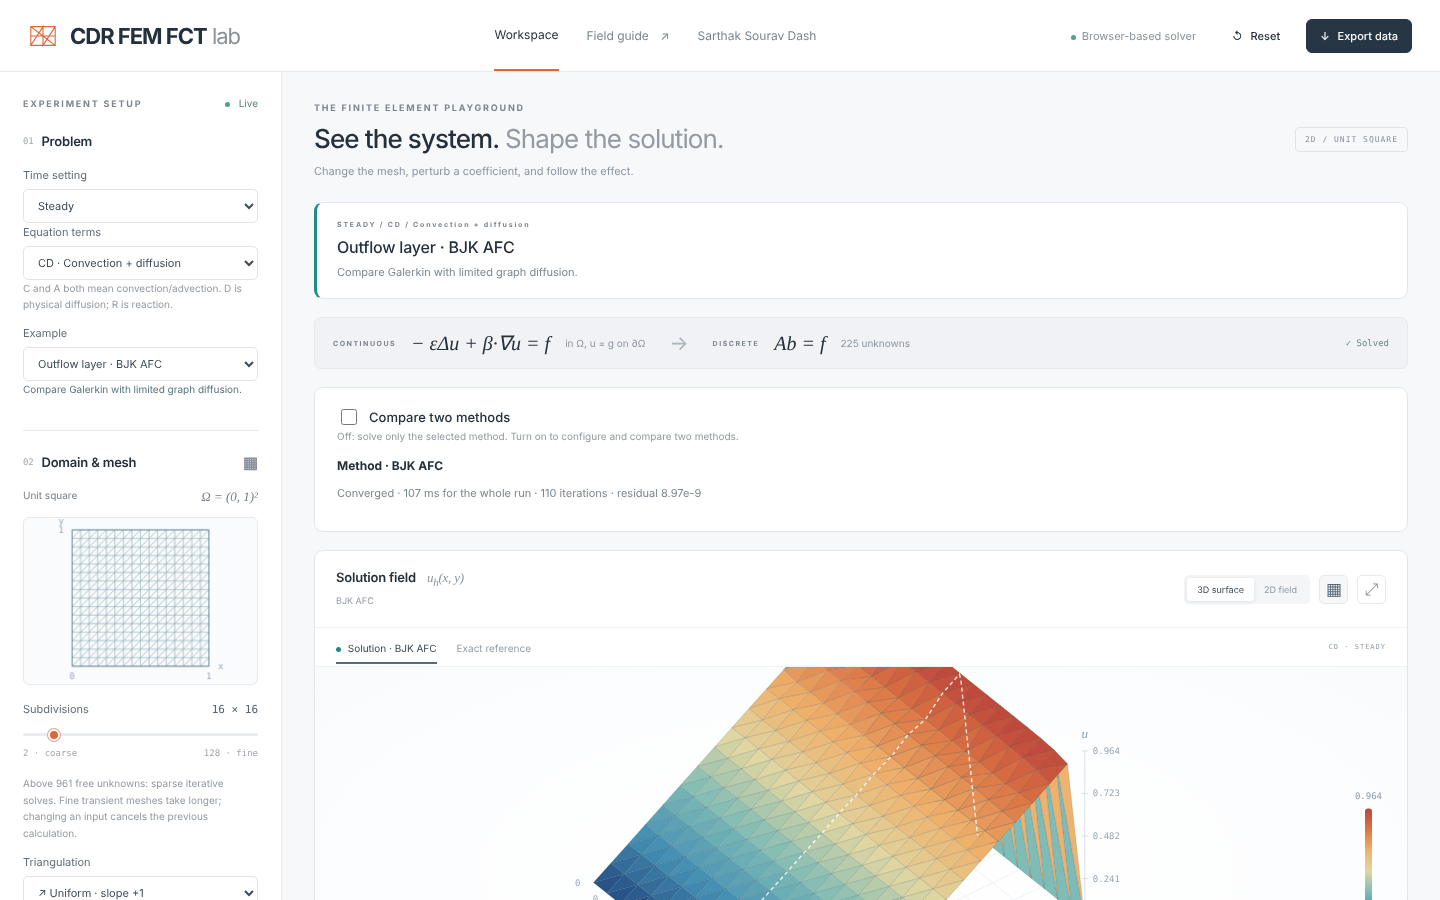
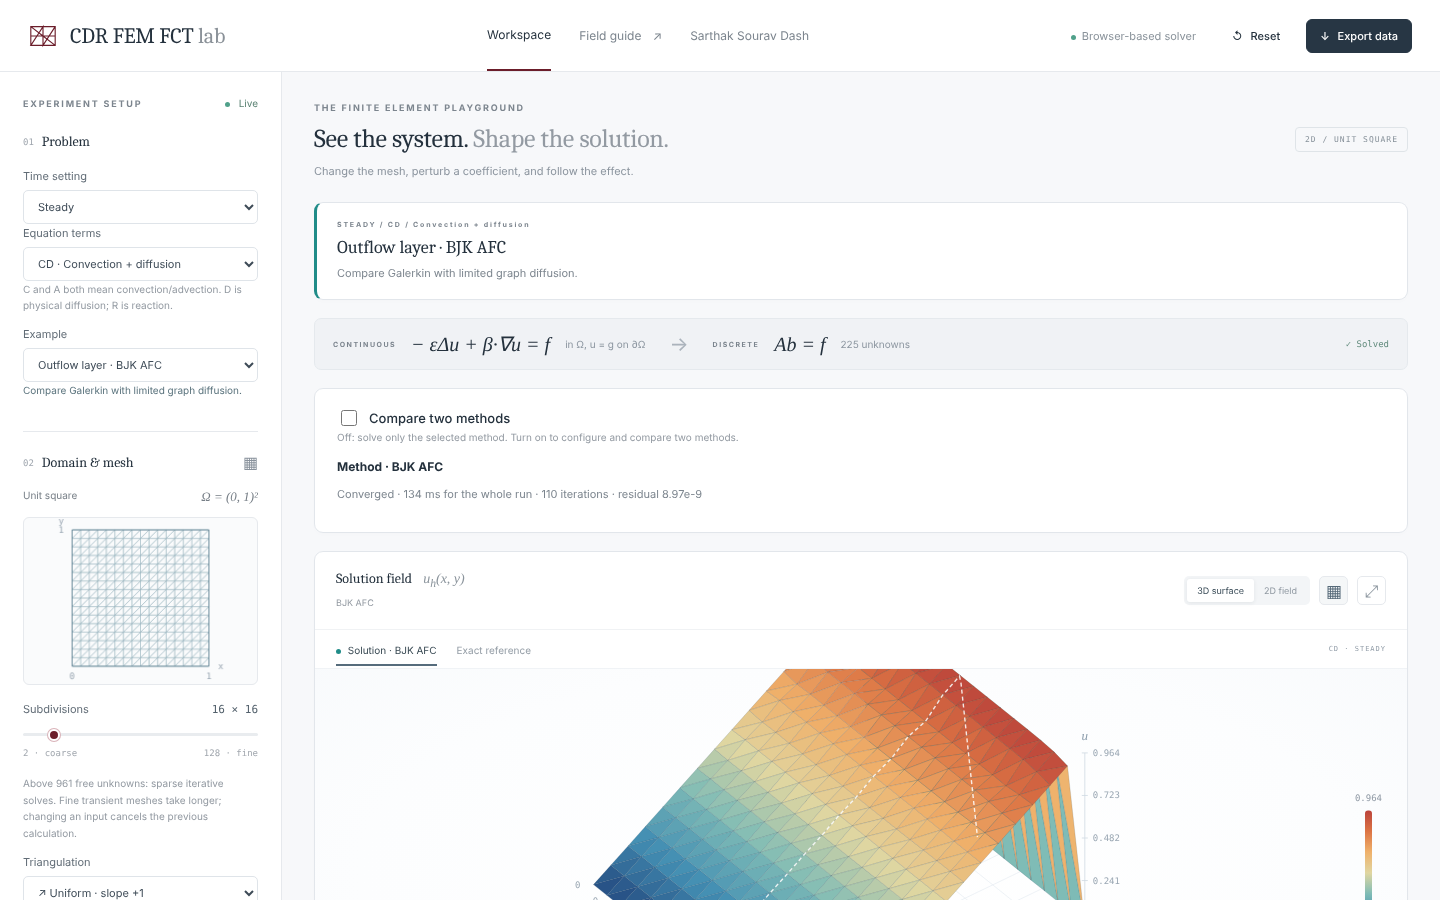
Ivory and deep wine palette

diff --git a/assets/css/style.css b/assets/css/style.css
@@ -1,15 +1,15 @@
 /* Sarthak Sourav Dash — personal site
-   Palette: black with earth pigments. Type: STIX Two Text, the face of mathematics journals. */
+   Palette: slate ink on ivory with a deep wine accent. Type: STIX Two Text, the face of mathematics journals. */
 @import url('https://fonts.googleapis.com/css2?family=STIX+Two+Text:ital,wght@0,400;0,500;0,600;1,400;1,500&display=swap');
 
 :root {
-  --black: #070605;      /* page */
-  --loam: #15110d;       /* raised surfaces, image slots */
-  --umber: #3b2f23;      /* rules and frames */
-  --dust: #a2947f;       /* secondary text */
-  --chalk: #ece4d3;      /* primary text */
-  --ochre: #d0a04c;      /* links, emphasis */
-  --laterite: #b4552f;   /* rare second accent */
+  --black: #fcfaf5;      /* page background: ivory */
+  --loam: #f3efe6;       /* image slots, raised surfaces */
+  --umber: #ddd6c8;      /* rules and frames */
+  --dust: #62605a;       /* secondary text */
+  --chalk: #141a21;      /* primary text */
+  --ochre: #6b1d2a;      /* deep wine: links, buttons, emphasis */
+  --laterite: #1f4b6e;   /* draft-note bar */
   --serif: 'STIX Two Text', 'STIX Two Math', 'Cambria', 'Times New Roman', serif;
   --margin-col: 11rem;
   --measure: 40rem;
@@ -65,7 +65,7 @@ em, i, .math { font-style: italic; }
 .entry p:last-child { margin-bottom: 0; }
 
 .plain { list-style: none; margin: 0; padding: 0; }
-.plain li { padding: 0.55rem 0; border-bottom: 1px solid #1f1913; display: flex; justify-content: space-between; gap: 1.5rem; align-items: baseline; }
+.plain li { padding: 0.55rem 0; border-bottom: 1px solid #ebe5da; display: flex; justify-content: space-between; gap: 1.5rem; align-items: baseline; }
 .plain li:first-child { padding-top: 0; }
 .plain li:last-child { border-bottom: 0; }
 .plain .when { color: var(--dust); font-size: 0.9rem; white-space: nowrap; text-align: right; font-feature-settings: 'lnum' 1; }
@@ -114,7 +114,7 @@ em, i, .math { font-style: italic; }
 .gallery figure { margin: 0; }
 .gallery figcaption { color: var(--dust); font-size: 0.88rem; padding-top: 0.45rem; line-height: 1.4; }
 dialog.lightbox { background: var(--black); color: var(--chalk); border: 1px solid var(--umber); padding: 1rem; max-width: min(92vw, 70rem); }
-dialog.lightbox::backdrop { background: rgba(0, 0, 0, 0.88); }
+dialog.lightbox::backdrop { background: rgba(20, 26, 33, 0.72); }
 dialog.lightbox img { max-height: 78vh; margin: 0 auto; }
 dialog.lightbox p { margin: 0.8rem 0 0; color: var(--dust); font-size: 0.92rem; display: flex; justify-content: space-between; gap: 1rem; }
 dialog.lightbox button { background: none; border: 0; color: var(--ochre); font: inherit; cursor: pointer; padding: 0; }

diff --git a/assets/js/layers.js b/assets/js/layers.js
@@ -16,7 +16,7 @@
   // Grid graded towards 1 so the layers stay resolved.
   const s = Array.from({ length: N + 1 }, (_, i) => 1 - Math.pow(1 - i / N, 2.2));
   const X = new Float64Array(N + 1), u = new Float64Array((N + 1) * (N + 1));
-  const low = [92, 66, 44], high = [222, 174, 86];
+  const low = [200, 190, 175], high = [107, 29, 42];
 
   const epsOf = (t) => Math.exp(Math.log(EPS_MAX) + (Math.log(EPS_MIN) - Math.log(EPS_MAX)) * t);
   const tOf = (eps) => (Math.log(eps) - Math.log(EPS_MAX)) / (Math.log(EPS_MIN) - Math.log(EPS_MAX));
@@ -43,9 +43,9 @@
     ctx.clearRect(0, 0, w, w);
 
     // frame and axis labels
-    ctx.strokeStyle = '#3b2f23'; ctx.lineWidth = 1;
+    ctx.strokeStyle = '#ddd6c8'; ctx.lineWidth = 1;
     ctx.strokeRect(px(0) + 0.5, py(1) + 0.5, size - 1, size - 1);
-    ctx.fillStyle = '#a2947f'; ctx.font = "italic 13px 'STIX Two Text', serif";
+    ctx.fillStyle = '#5f6874'; ctx.font = "italic 13px 'STIX Two Text', serif";
     ctx.textBaseline = 'top'; ctx.textAlign = 'left'; ctx.fillText('0', px(0) - 14, py(0) + 3);
     ctx.textAlign = 'right'; ctx.fillText('x = 1', px(1), py(0) + 4);
     ctx.save(); ctx.translate(px(0) - 18, py(1)); ctx.rotate(-Math.PI / 2); ctx.fillText('y = 1', 0, 0); ctx.restore();

diff --git a/index.html b/index.html
@@ -6,7 +6,7 @@
   <title>Sarthak Sourav Dash, mathematics at IIT Gandhinagar</title>
   <meta name="description" content="PhD student in mathematics at IIT Gandhinagar working on numerical analysis of partial differential equations and algebraic flux correction.">
   <meta name="author" content="Sarthak Sourav Dash">
-  <meta name="theme-color" content="#070605">
+  <meta name="theme-color" content="#fcfaf5">
   <meta property="og:title" content="Sarthak Sourav Dash, mathematics at IIT Gandhinagar">
   <meta property="og:description" content="PhD student in mathematics at IIT Gandhinagar working on numerical analysis of partial differential equations and algebraic flux correction.">
   <meta property="og:type" content="website">

diff --git a/visualization.html b/visualization.html
@@ -6,7 +6,7 @@
   <title>Math visualization | Sarthak Sourav Dash</title>
   <meta name="description" content="Interactive mathematics by Sarthak Sourav Dash, including a browser-based finite element lab for convection–diffusion–reaction equations.">
   <meta name="author" content="Sarthak Sourav Dash">
-  <meta name="theme-color" content="#070605">
+  <meta name="theme-color" content="#fcfaf5">
   <meta property="og:title" content="Math visualization | Sarthak Sourav Dash">
   <meta property="og:description" content="Interactive mathematics by Sarthak Sourav Dash, including a browser-based finite element lab for convection–diffusion–reaction equations.">
   <meta property="og:type" content="website">

diff --git a/research.html b/research.html
@@ -6,7 +6,7 @@
   <title>Research | Sarthak Sourav Dash</title>
   <meta name="description" content="Research of Sarthak Sourav Dash: algebraic flux correction and finite element methods for convection–diffusion–reaction equations.">
   <meta name="author" content="Sarthak Sourav Dash">
-  <meta name="theme-color" content="#070605">
+  <meta name="theme-color" content="#fcfaf5">
   <meta property="og:title" content="Research | Sarthak Sourav Dash">
   <meta property="og:description" content="Research of Sarthak Sourav Dash: algebraic flux correction and finite element methods for convection–diffusion–reaction equations.">
   <meta property="og:type" content="website">

diff --git a/experience.html b/experience.html
@@ -6,7 +6,7 @@
   <title>Experience | Sarthak Sourav Dash</title>
   <meta name="description" content="Education, teaching, projects and qualifications of Sarthak Sourav Dash.">
   <meta name="author" content="Sarthak Sourav Dash">
-  <meta name="theme-color" content="#070605">
+  <meta name="theme-color" content="#fcfaf5">
   <meta property="og:title" content="Experience | Sarthak Sourav Dash">
   <meta property="og:description" content="Education, teaching, projects and qualifications of Sarthak Sourav Dash.">
   <meta property="og:type" content="website">

diff --git a/personal.html b/personal.html
@@ -6,7 +6,7 @@
   <title>Personal | Sarthak Sourav Dash</title>
   <meta name="description" content="About Sarthak Sourav Dash outside of mathematics.">
   <meta name="author" content="Sarthak Sourav Dash">
-  <meta name="theme-color" content="#070605">
+  <meta name="theme-color" content="#fcfaf5">
   <meta property="og:title" content="Personal | Sarthak Sourav Dash">
   <meta property="og:description" content="About Sarthak Sourav Dash outside of mathematics.">
   <meta property="og:type" content="website">

diff --git a/gallery.html b/gallery.html
@@ -6,7 +6,7 @@
   <title>Gallery | Sarthak Sourav Dash</title>
   <meta name="description" content="Photographs from conferences, talks and travel.">
   <meta name="author" content="Sarthak Sourav Dash">
-  <meta name="theme-color" content="#070605">
+  <meta name="theme-color" content="#fcfaf5">
   <meta property="og:title" content="Gallery | Sarthak Sourav Dash">
   <meta property="og:description" content="Photographs from conferences, talks and travel.">
   <meta property="og:type" content="website">
